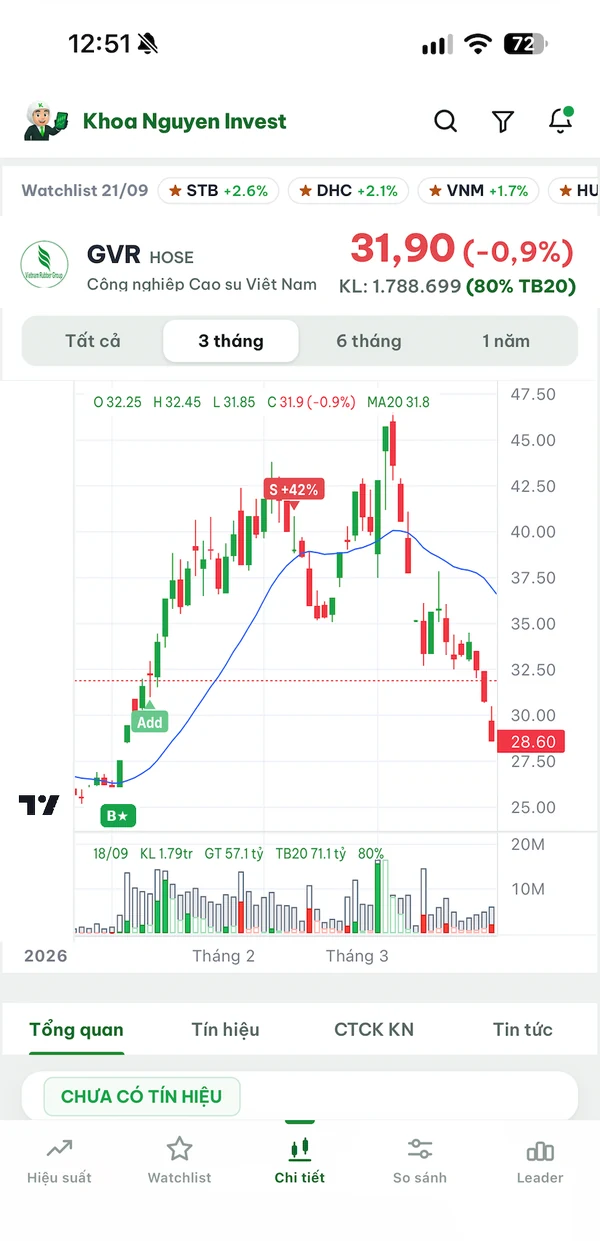
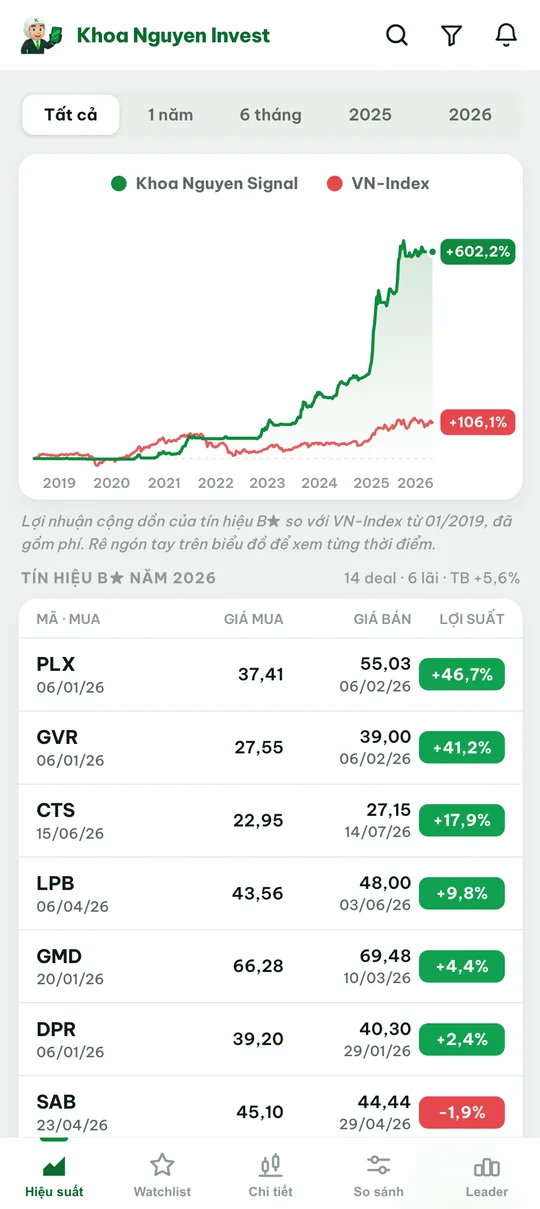
Trang dau mot man hinh: gop quy trinh 6 buoc vao khung (timeline), copy moi, mockup GVR B*/Add/Sell + app hieu suat deal 2026
Claude-Session: https://claude.ai/code/session_017ZGUKnSNJL9CvmW4aAPxr4

diff --git a/index.html b/index.html
@@ -194,20 +194,20 @@ body.knFit footer{display:none}
 body.knFit #view-compare>.card{margin-bottom:0}
 /* ===== TRANG DAU (tab He thong): mot khung trang — gioi thieu + mockup + chi so + quy trinh ===== */
 .kn-app #knHero{display:none!important}
-#knHero{background:#fff;border:1px solid var(--border);border-radius:16px;padding:30px 32px 26px;margin-bottom:16px;box-shadow:0 1px 3px rgba(16,24,40,.05)}
-#knHero .kh-in{display:grid;grid-template-columns:minmax(0,1fr) minmax(0,1.06fr);gap:36px;align-items:center}
+#knHero{background:#fff;border:1px solid var(--border);border-radius:16px;padding:26px 32px 22px;margin-bottom:16px;box-shadow:0 1px 3px rgba(16,24,40,.05);display:flex;flex-direction:column;box-sizing:border-box}
+#knHero .kh-in{display:grid;grid-template-columns:minmax(0,1fr) minmax(0,1.06fr);gap:36px;align-items:center;flex:1}
 #knHero .kh-in>*{min-width:0}
 .kh-tag{display:inline-flex;align-items:center;gap:7px;background:#F1F8F3;color:var(--green-dark);border:1px solid #CFE9D8;font-weight:800;font-size:10.5px;letter-spacing:.09em;text-transform:uppercase;padding:5px 13px;border-radius:20px}
 .kh-tag i{width:6px;height:6px;border-radius:50%;background:var(--green);box-shadow:0 0 0 3px rgba(24,163,75,.18)}
-#knHero h1{font-size:30px;line-height:1.22;letter-spacing:-.025em;margin:14px 0 12px;color:#12203A;font-weight:800}
+#knHero h1{font-size:clamp(22px,3.3vh,38px);line-height:1.22;letter-spacing:-.025em;margin:12px 0 10px;color:#12203A;font-weight:800}
 #knHero h1 em{font-style:normal;color:var(--green-dark)}
-#knHero p{font-size:14px;line-height:1.68;color:#4B5563;margin-bottom:9px}
+#knHero p{font-size:clamp(12.5px,1.62vh,16px);line-height:1.66;color:#4B5563;margin-bottom:8px}
 #knHero p b{color:#12203A;font-weight:700}
-#knHero p.kh-root{font-size:12.5px;line-height:1.6;color:#6B7280;border-left:3px solid #CFE9D8;padding-left:11px;margin-top:11px}
+#knHero p.kh-root{font-size:clamp(11.5px,1.45vh,14px);line-height:1.55;color:#6B7280;border-left:3px solid #CFE9D8;padding-left:11px;margin-top:9px}
 #knHero p.kh-root b{color:var(--green-dark);font-weight:700}
-.kh-num{display:grid;grid-template-columns:repeat(3,minmax(0,1fr));gap:12px 22px;margin:17px 0 18px;padding-top:15px;border-top:1px solid #E7ECE9}
-.kh-num .l{font-size:11px;color:var(--muted);font-weight:600;white-space:nowrap}
-.kh-num .v{font-size:21px;font-weight:800;margin-top:2px;letter-spacing:-.015em}
+.kh-num{display:grid;grid-template-columns:repeat(3,minmax(0,1fr));gap:10px 22px;margin:14px 0 15px;padding-top:13px;border-top:1px solid #E7ECE9}
+.kh-num .l{font-size:clamp(11px,1.1vh,13px);color:var(--muted);font-weight:600;white-space:nowrap}
+.kh-num .v{font-size:clamp(17px,2.4vh,26px);font-weight:800;margin-top:2px;letter-spacing:-.015em}
 .kh-num .v.mut{color:#6B7280}
 .kh-cta{display:flex;gap:10px;flex-wrap:wrap;align-items:center}
 .kh-cta a,.kh-cta button{display:inline-flex;align-items:center;gap:8px;text-decoration:none;font:inherit;font-weight:700;font-size:13.5px;padding:11px 19px;border-radius:9px;cursor:pointer;border:1px solid transparent}
@@ -215,17 +215,13 @@ body.knFit #view-compare>.card{margin-bottom:0}
 .kh-b1:hover{background:#0055D4}
 .kh-b3{background:none;color:var(--muted)}
 .kh-b3:hover{color:var(--green-dark)}
-/* --- may tinh + dien thoai: khung CSS co goc nghieng nhe + anh phan chieu, ben trong la anh chup that --- */
+/* Mockup: MacBook + iPhone, anh chup that ben trong khung ve bang CSS */
 .kh-dev{position:relative;padding:8px 104px 34px 0;perspective:1800px}
 .kh-mac{transform:rotateY(-7deg) rotateX(2.5deg);transform-origin:55% 60%;filter:drop-shadow(0 26px 44px rgba(15,32,56,.22))}
 .kh-lid{background:linear-gradient(160deg,#3A3F49 0%,#23262D 55%,#1B1D23 100%);border-radius:13px 13px 4px 4px;padding:15px 8px 9px;position:relative;box-shadow:inset 0 0 0 1px rgba(255,255,255,.06)}
 .kh-cam{position:absolute;top:6px;left:50%;transform:translateX(-50%);width:5px;height:5px;border-radius:50%;background:#0D0E11;box-shadow:inset 0 0 0 1px #4A4F59}
 .kh-scr{position:relative;background:#fff;border-radius:3px;overflow:hidden;line-height:0}
 .kh-scr::after{content:"";position:absolute;inset:0;background:linear-gradient(112deg,rgba(255,255,255,.22) 0%,rgba(255,255,255,.06) 30%,rgba(255,255,255,0) 48%);pointer-events:none}
-.kh-bar{display:flex;align-items:center;gap:5px;background:#EDF0F4;padding:4px 8px;line-height:1}
-.kh-bar i{width:5px;height:5px;border-radius:50%;background:#CBD2DB;flex:none}
-.kh-bar i:first-child{background:#E8A0A0}.kh-bar i:nth-child(2){background:#EBCB94}.kh-bar i:nth-child(3){background:#A6D5AE}
-.kh-bar span{flex:1;text-align:center;font-size:7.5px;color:#939BA7;background:#fff;border-radius:6px;padding:2px 0;margin-left:6px;line-height:1.3}
 .kh-scr img{width:100%;height:auto;display:block}
 .kh-base{height:13px;margin:0 -8%;background:linear-gradient(#D5DAE2 0%,#B4BBC6 45%,#8E96A3 100%);border-radius:0 0 12px 12px;position:relative;box-shadow:0 8px 16px rgba(15,32,56,.2)}
 .kh-base::after{content:"";position:absolute;left:50%;top:0;transform:translateX(-50%);width:13%;height:4px;background:#9AA2AF;border-radius:0 0 6px 6px}
@@ -233,19 +229,25 @@ body.knFit #view-compare>.card{margin-bottom:0}
 .kh-iph::after{content:"";position:absolute;inset:5px;border-radius:19px;background:linear-gradient(118deg,rgba(255,255,255,.2) 0%,rgba(255,255,255,.04) 32%,rgba(255,255,255,0) 50%);pointer-events:none}
 .kh-iph img{width:100%;height:auto;display:block;border-radius:19px}
 .kh-island{position:absolute;top:11px;left:50%;transform:translateX(-50%);width:42px;height:11px;background:#0B0C10;border-radius:99px;z-index:2}
-/* --- quy trinh van hanh: cung khung trang, nen sang --- */
-.kh-flow{margin-top:28px;padding-top:24px;border-top:1px solid #E7ECE9}
-.kf-hd{display:flex;align-items:baseline;gap:14px;flex-wrap:wrap;margin-bottom:14px}
-.kf-hd h2{font-size:15px;font-weight:800;letter-spacing:.06em;text-transform:uppercase;color:#12203A;margin:0}
-.kf-hd p{font-size:13px;color:var(--muted);margin:0}
-.kf-grid{display:grid;grid-template-columns:repeat(3,minmax(0,1fr));gap:12px}
-.kf-c{background:#F8FAF9;border:1px solid #E7ECE9;border-radius:12px;padding:15px 16px 14px;position:relative}
-.kf-n{display:inline-flex;width:26px;height:26px;border-radius:8px;background:var(--green-soft);border:1px solid #CFE9D8;color:var(--green-dark);font-weight:800;font-size:12.5px;align-items:center;justify-content:center;margin-bottom:9px}
-.kf-c h3{font-size:14px;font-weight:700;color:#12203A;margin-bottom:6px;letter-spacing:-.01em}
-.kf-c h3 em{font-style:normal;font-weight:700;font-size:11px;color:var(--green-dark);letter-spacing:.06em;text-transform:uppercase;margin-left:6px}
-.kf-c p{font-size:12.6px;line-height:1.6;color:#5B6472;margin:0}
+/* Quy trinh 6 buoc: mot hang timeline nam cuoi khung, chay ngang, mui ten noi nhau */
+.kh-flow{margin-top:18px;padding-top:16px;border-top:1px solid #E7ECE9}
+.kf-hd{display:flex;align-items:baseline;gap:12px;flex-wrap:wrap;margin-bottom:12px}
+.kf-hd h2{font-size:12.5px;font-weight:800;letter-spacing:.08em;text-transform:uppercase;color:#12203A;margin:0}
+.kf-hd p{font-size:clamp(12.5px,1.4vh,14px);color:var(--muted);margin:0}
+.kf-line{display:grid;grid-template-columns:repeat(6,minmax(0,1fr));gap:0;position:relative}
+.kf-line::before{content:"";position:absolute;left:14px;right:14px;top:15px;height:2px;background:linear-gradient(90deg,#CFE9D8,#18A34B 60%,#0F7A3A);border-radius:2px}
+.kf-s{position:relative;padding:0 14px 0 0;min-width:0}
+.kf-s .kf-n{position:relative;z-index:1;display:inline-flex;width:32px;height:32px;border-radius:50%;background:#fff;border:2px solid var(--green);color:var(--green-dark);font-weight:800;font-size:13px;align-items:center;justify-content:center;box-shadow:0 0 0 4px #fff;margin:0 0 9px}
+.kf-s:last-child .kf-n{background:var(--green);color:#fff}
+.kf-s::after{content:"";position:absolute;right:16px;top:10px;width:9px;height:9px;border-top:2px solid #18A34B;border-right:2px solid #18A34B;transform:rotate(45deg);background:#fff;z-index:1}
+.kf-s:last-child::after{display:none}
+.kf-s h3{font-size:clamp(12.5px,1.5vh,15px);font-weight:800;color:#12203A;margin:0 0 3px;letter-spacing:-.01em;line-height:1.25}
+.kf-s h3 em{font-style:normal;font-weight:700;font-size:10px;color:var(--green-dark);letter-spacing:.07em;text-transform:uppercase;margin-left:5px}
+.kf-s p{font-size:clamp(11.5px,1.4vh,13.5px);line-height:1.5;color:#5B6472;margin:0;padding-right:6px}
+@media(min-height:1000px) and (min-width:1001px){#knHero .kh-in{grid-template-columns:minmax(0,1fr) minmax(0,1.18fr);gap:48px}.kh-cta a,.kh-cta button{font-size:14.5px;padding:12px 22px}}
+@media(max-height:860px) and (min-width:1001px){#knHero{padding:16px 26px 14px}#knHero h1{margin:9px 0 7px}#knHero p{margin-bottom:6px;line-height:1.55}#knHero p.kh-root{margin-top:6px}.kh-num{margin:10px 0 11px;padding-top:10px;gap:6px 18px}.kh-flow{margin-top:11px;padding-top:11px}.kf-hd{margin-bottom:8px}.kf-s .kf-n{width:28px;height:28px;font-size:12px;margin-bottom:6px}.kf-line::before{top:13px}.kf-s::after{top:9px}.kf-s p{line-height:1.4}}
 @media(max-width:1000px){
- #knHero{padding:20px 16px 18px}
+ #knHero{padding:20px 16px 18px;min-height:0!important}
  #knHero .kh-in{grid-template-columns:minmax(0,1fr);gap:24px}
  #knHero h1{font-size:22px;margin:11px 0 9px}
  #knHero p{font-size:13.5px;line-height:1.6}
@@ -253,7 +255,10 @@ body.knFit #view-compare>.card{margin-bottom:0}
  .kh-iph{width:120px}
  .kh-num{gap:10px 14px;margin:13px 0 15px;padding-top:12px}.kh-num .v{font-size:18.5px}
  .kh-cta a,.kh-cta button{padding:10px 16px;font-size:13px}
- .kf-grid{grid-template-columns:minmax(0,1fr);gap:10px}
+ .kf-line{grid-template-columns:1fr 1fr;gap:14px 10px}
+ .kf-line::before,.kf-s::after{display:none}
+ .kf-s{display:grid;grid-template-columns:32px 1fr;gap:10px;align-items:start;padding:0}
+ .kf-s .kf-n{margin:0}
 }
 </style>
 
@@ -295,10 +300,10 @@ body.knFit #view-compare>.card{margin-bottom:0}
 <script src="bstar_books.js?v=20260906a"></script>
 <script src="hanghoa_data.js?v=20260907a"></script>
 <script src="nhan_dinh.js?v=20260914a"></script>
-<script src="dashboard_app.js?v=20260919d"></script>
+<script src="dashboard_app.js?v=20260920a"></script>
 <script src="market_v2.js?v=20260907l"></script>
 <script src="autorun.js?v=20260812a"></script>
-<script src="app-shell.js?v=20260919d"></script>
+<script src="app-shell.js?v=20260920a"></script>
 <script>if('serviceWorker' in navigator){addEventListener('load',function(){navigator.serviceWorker.register('/sw.js').catch(function(){});});}</script>
 </body>
 </html>

diff --git a/dashboard_app.js b/dashboard_app.js
@@ -1287,12 +1287,12 @@ function ddVNI(curve){
    Mockup: khung ve bang CSS, ben trong la anh chup that (mock-web.webp / mock-app.webp).
    Che do app bo qua. */
 const KN_BUOC = [
-  ['Thu thập dữ liệu','Data','Giá, khối lượng, báo cáo tài chính 12 quý, cổ tức và sự kiện doanh nghiệp của toàn bộ HOSE–HNX được nạp về ngay sau phiên đóng cửa. Nguồn: VNDirect, Vietcap IQ.'],
-  ['Chuẩn hoá','Normalize','Điều chỉnh cổ tức và chia tách, đồng nhất chuẩn kế toán ngân hàng – phi ngân hàng, loại mã thanh khoản mỏng. Mọi mã được đưa về cùng một hệ quy chiếu.'],
-  ['Chấm điểm đa nhân tố','Score','Tăng trưởng LNST và doanh thu, ROE, P/E–P/B so với lịch sử 6 năm của chính nó, sức mạnh giá tương đối RS, bộ tiêu chí CANSLIM. Mỗi mã một điểm số, xếp hạng toàn thị trường.'],
-  ['Nhận diện nền giá','Detect','Thuật toán đọc cấu trúc nến theo Wyckoff và Minervini: biên độ co hẹp dần, khối lượng cạn, vị trí so đường trung bình. Nền siết chặt nhất được gắn B★.'],
-  ['Phát tín hiệu','Signal','Giá bứt khỏi nền kèm khối lượng là hệ thống vào lệnh, điểm thoát đặt sẵn từ lúc mua. Thông báo về điện thoại trong vài giây, kể cả khi app đang đóng.'],
-  ['Đối soát','Review','Mỗi lệnh vào sổ, tính lãi/lỗ đã trừ phí, dựng lại đường vốn và đặt cạnh VN-Index. Kiểm chứng liên tục từ 2019 — sai thì sửa luật, không sửa số.']
+  ['Thu thập dữ liệu','Data','Giá, khối lượng, BCTC 12 quý của toàn bộ HOSE–HNX, nạp về ngay sau phiên.'],
+  ['Chuẩn hoá','Normalize','Chỉnh cổ tức, chia tách; đồng nhất chuẩn kế toán; loại mã thanh khoản mỏng.'],
+  ['Chấm điểm','Score','Tăng trưởng, ROE, định giá, sức mạnh giá RS, tiêu chí CANSLIM — mỗi mã một điểm.'],
+  ['Nhận diện nền','Detect','Đọc nền giá theo Wyckoff và Minervini; nền siết chặt nhất được gắn B★.'],
+  ['Phát tín hiệu','Signal','Bứt nền kèm khối lượng là vào lệnh, điểm thoát đặt sẵn; báo thẳng về điện thoại.'],
+  ['Đối soát','Review','Mỗi lệnh vào sổ, lãi lỗ tính sau phí, đặt cạnh VN-Index. Sai thì sửa luật, không sửa số.']
 ];
 function knHeroHtml(){
   const zalo = '<svg viewBox="0 0 24 24" width="17" height="17" fill="none" stroke="currentColor" stroke-width="2" stroke-linecap="round" stroke-linejoin="round"><path d="M21 12a8.5 8.5 0 0 1-12.4 7.6L3 21l1.5-5.2A8.5 8.5 0 1 1 21 12z"/><path d="M8.5 10.5h7M8.5 13.5h4.5"/></svg>';
@@ -1300,10 +1300,10 @@ function knHeroHtml(){
     <div class="kh-in">
       <div class="kh-txt">
         <span class="kh-tag"><i></i>Khoa Nguyen Signal · Hệ thống giao dịch định lượng</span>
-        <h1>Cả thị trường được quét lại mỗi phiên. <em>Chỉ vài mã lọt qua.</em></h1>
-        <p>Khoa Nguyen Signal là bộ máy giao dịch định lượng tôi tự xây và vận hành liên tục từ 2019. Mỗi phiên đóng cửa, engine chấm điểm toàn bộ HOSE–HNX qua hai lớp lọc: <b>sức khoẻ doanh nghiệp</b> (tăng trưởng, ROE, định giá, dòng tiền) và <b>cấu trúc đồ thị</b> (nền giá, thanh khoản, sức mạnh tương đối). Mã qua được cả hai vòng mới vào Watchlist — nền siết chặt nhất được gắn <b>B★</b>.</p>
-        <p>Tín hiệu mua, điểm thoát, khối lượng — đẩy thẳng về điện thoại. Không dự đoán, không cảm tính: mọi lệnh đều được ghi sổ, đối soát và công khai ngay trên trang này.</p>
-        <p class="kh-root">Nền tảng tư tưởng: <b>Jesse Livermore</b> · <b>Richard Wyckoff</b> · <b>CANSLIM — William O'Neil</b> · <b>Mark Minervini</b>, được hệ thống hoá thành thuật toán và kiểm chứng trên dữ liệu 7 năm của thị trường Việt Nam.</p>
+        <h1>Tôi không đoán thị trường. <em>Hệ thống chọn mã, tôi mới xuống tiền.</em></h1>
+        <p>Khoa Nguyen Signal là bộ máy tôi tự viết và chạy bằng tiền thật từ 2019. Cứ hết phiên là nó rà lại toàn bộ HOSE–HNX qua hai vòng: <b>doanh nghiệp có khoẻ không</b> (tăng trưởng, ROE, định giá, dòng tiền) và <b>đồ thị có đẹp không</b> (nền giá, thanh khoản, sức mạnh tương đối). Qua cả hai vòng mới được vào Watchlist; nền siết chặt nhất được gắn <b>B★</b>.</p>
+        <p>Điểm mua, điểm thoát, khối lượng — báo thẳng về điện thoại. Lời hay lỗ đều ghi sổ, đặt cạnh VN-Index và để công khai ngay trang này. Bảy năm, hơn trăm deal, không giấu deal nào.</p>
+        <p class="kh-root">Nền tảng: <b>Jesse Livermore</b> · <b>Richard Wyckoff</b> · <b>CANSLIM — William O'Neil</b> · <b>Mark Minervini</b> — tôi gói những nguyên tắc đó thành thuật toán và kiểm chứng trên 7 năm dữ liệu thị trường Việt Nam.</p>
         <div class="kh-num" id="khNum"></div>
         <div class="kh-cta">
           <a class="kh-b1" href="https://zalo.me/g/ykbtyp974" target="_blank" rel="noopener" onclick="try{gtag('event','cta_zalo',{from:'hero'})}catch(e){}">${zalo}Room Zalo trải nghiệm</a>
@@ -1314,23 +1314,35 @@ function knHeroHtml(){
         <div class="kh-mac">
           <div class="kh-lid"><span class="kh-cam"></span>
             <div class="kh-scr">
-              <div class="kh-bar"><i></i><i></i><i></i><span>khoanguyeninvest.vn</span></div>
-              <img src="mock-web.webp" width="1800" height="1028" alt="Trang hiệu suất Khoa Nguyen Signal" decoding="async" fetchpriority="high">
+              <img src="mock-web.webp" width="1600" height="813" alt="GVR — tín hiệu B★, Add và điểm bán trên khoanguyeninvest.vn" decoding="async" fetchpriority="high">
             </div>
           </div>
           <div class="kh-base"></div>
         </div>
         <div class="kh-iph"><span class="kh-island"></span>
-          <img src="mock-app.webp" width="700" height="1479" alt="App Khoa Nguyen Invest — chi tiết mã" decoding="async">
+          <img src="mock-app.webp" width="540" height="1209" alt="App Khoa Nguyen Invest — hiệu suất và các deal B★ 2026" decoding="async">
         </div>
       </div>
     </div>
     <div class="kh-flow">
-      <div class="kf-hd"><h2>Quy trình vận hành</h2><p>Sáu bước chạy tự động sau mỗi phiên đóng cửa — không ai gõ tay vào bất kỳ con số nào trên trang này.</p></div>
-      <div class="kf-grid">${KN_BUOC.map((b,i)=>`<div class="kf-c"><span class="kf-n">${i+1}</span><h3>${b[0]}<em>${b[1]}</em></h3><p>${b[2]}</p></div>`).join('')}</div>
+      <div class="kf-hd"><h2>Máy chạy sáu bước sau mỗi phiên</h2><p>Không ai gõ tay vào con số nào trên trang này.</p></div>
+      <div class="kf-line">${KN_BUOC.map((b,i)=>`<div class="kf-s"><span class="kf-n">${i+1}</span><h3>${b[0]}<em>${b[1]}</em></h3><p>${b[2]}</p></div>`).join('')}</div>
     </div>
   </section>`;
 }
+/* Khung trang dau cao dung mot man hinh: tu dinh (duoi thanh menu) den sat thanh ten ghim.
+   Man hinh thap qua (noi dung khong vua) thi de tu nhien, cuon binh thuong. */
+function __heroTranMan(){
+  try{
+    const h = document.getElementById('knHero'); if (!h || innerWidth <= 1000) return;
+    const top = h.getBoundingClientRect().top + window.scrollY;
+    const ft = document.getElementById('nameBar');
+    const botH = ft ? Math.max(0, Math.round(innerHeight - ft.getBoundingClientRect().top)) : 0;
+    const want = Math.round(innerHeight - top - botH - 16);
+    h.style.minHeight = want > 520 ? want + 'px' : '';
+  }catch(e){}
+}
+addEventListener('resize', __heroTranMan);
 window.knHeroCuon = function(){
   try { const c = document.querySelector('#view-market .hero'); if (!c) return;
     window.scrollTo({ top: c.getBoundingClientRect().top + window.scrollY - 64, behavior:'smooth' }); } catch(e){}
@@ -1371,7 +1383,7 @@ inits.market = async function(){
   <div style="height:16px"></div>
   <div class="card"><h2>Lợi suất theo tháng <span class="hint">% · màu đậm = biên độ lớn · chấm mờ = đứng ngoài thị trường</span></h2><div class="mini" id="moSum" style="margin-bottom:10px"></div><div id="moTable" style="overflow-x:auto"></div></div>`;
   /* App (vỏ app-shell đặt window.__knLite): tab này nằm ẩn, bỏ qua chart + bảng tháng + top cho nhẹ */
-  if (!window.__knLite) { drawPerf(); knHeroVe(); }
+  if (!window.__knLite) { drawPerf(); knHeroVe(); setTimeout(__heroTranMan, 0); setTimeout(__heroTranMan, 400); }
   renderRecent();
   if (!window.__knLite) { renderMonthly(); }
   refreshOpenDeals();
